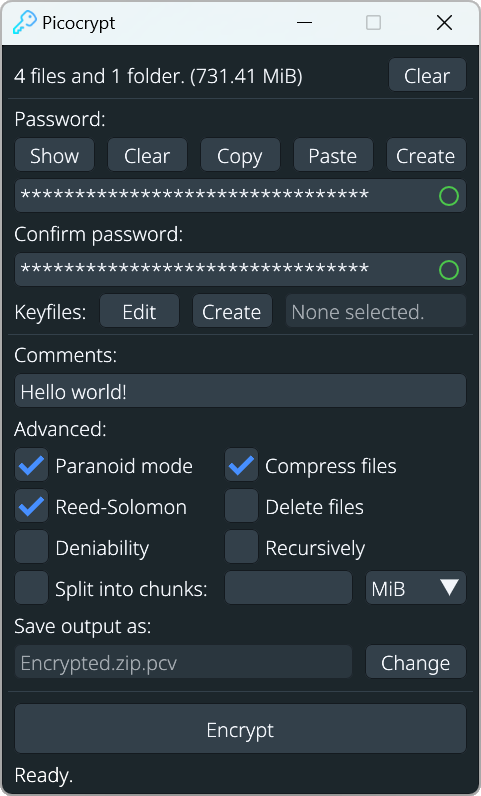
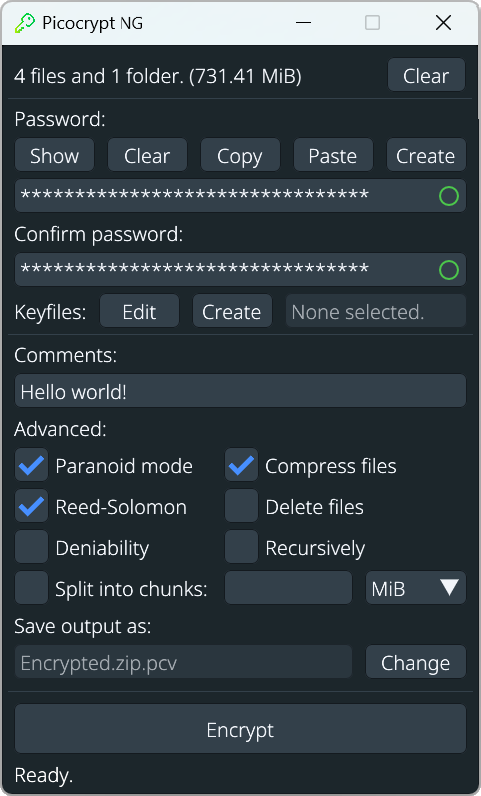
migrate Picocrypt -> Picocrypt NG

diff --git a/Internals.md b/Internals.md
@@ -1,8 +1,8 @@
 # Internals
-If you're wondering about how Picocrypt handles cryptography, you've come to the right place! This page contains the technical details about the cryptographic algorithms and parameters used, as well as how cryptographic values are stored in the header format.
+If you're wondering about how Picocrypt NG handles cryptography, you've come to the right place! This page contains the technical details about the cryptographic algorithms and parameters used, as well as how cryptographic values are stored in the header format.
 
 # Core Cryptography
-Picocrypt uses the following cryptographic primitives:
+Picocrypt NG uses the following cryptographic primitives:
 - XChaCha20 (cascaded with Serpent in counter mode for paranoid mode)
 - Keyed-BLAKE2b for normal mode, HMAC-SHA3 for paranoid mode (256-bit key, 512-bit digest)
 - HKDF-SHA3 for deriving a subkey for the MAC above, as well as a key for Serpent
@@ -13,10 +13,10 @@ Picocrypt uses the following cryptographic primitives:
 All primitives used are from the well-known [golang.org/x/crypto](https://pkg.go.dev/golang.org/x/crypto) module.
 
 # Counter Overflow
-Since XChaCha20 has a max message size of 256 GiB, Picocrypt will use the HKDF-SHA3 mentioned above to generate a new nonce for XChaCha20 and a new IV for Serpent if the total encrypted data is more than 60 GiB. While this threshold can be increased up to 256 GiB, Picocrypt uses 60 GiB to prevent any edge cases with blocks or the counter used by Serpent.
+Since XChaCha20 has a max message size of 256 GiB, Picocrypt NG will use the HKDF-SHA3 mentioned above to generate a new nonce for XChaCha20 and a new IV for Serpent if the total encrypted data is more than 60 GiB. While this threshold can be increased up to 256 GiB, Picocrypt NG uses 60 GiB to prevent any edge cases with blocks or the counter used by Serpent.
 
 # Header Format
-A Picocrypt volume's header is encoded with Reed-Solomon by default since it is, after all, the most important part of the entire file. An encoded value will take up three times the size of the unencoded value.
+A Picocrypt NG volume's header is encoded with Reed-Solomon by default since it is, after all, the most important part of the entire file. An encoded value will take up three times the size of the unencoded value.
 
 **All offsets and sizes below are in bytes.**
 | Offset | Encoded size | Decoded size | Description
@@ -35,24 +35,24 @@ A Picocrypt volume's header is encoded with Reed-Solomon by default since it is,
 | 789+3C |              |              | Encrypted contents of input data
 
 # Keyfile Design
-Picocrypt allows the use of keyfiles as an additional form of authentication. Picocrypt's unique "Require correct order" feature enforces the user to drop keyfiles into the window in the same order as they did when encrypting in order to decrypt the volume successfully. Here's how it works:
+Picocrypt NG allows the use of keyfiles as an additional form of authentication. Picocrypt NG's unique "Require correct order" feature enforces the user to drop keyfiles into the window in the same order as they did when encrypting in order to decrypt the volume successfully. Here's how it works:
 
-If correct order is not required, Picocrypt will take the SHA3-256 of each keyfile individually and XOR the hashes together. Finally, the result is XORed with the master key. Because the XOR operation is both commutative and associative, the order in which the keyfile hashes are XORed with each other doesn't matter - the end result is the same.
+If correct order is not required, Picocrypt NG will take the SHA3-256 of each keyfile individually and XOR the hashes together. Finally, the result is XORed with the master key. Because the XOR operation is both commutative and associative, the order in which the keyfile hashes are XORed with each other doesn't matter - the end result is the same.
 
-If correct order is required, Picocrypt will concatenate the keyfiles together in the order they were dropped into the window and take the SHA3-256 of the combined keyfiles. If the order is not correct, the keyfiles, when appended to each other, will result in a different file, and thus a different hash. So, the correct order of keyfiles is required to decrypt the volume successfully.
+If correct order is required, Picocrypt NG will concatenate the keyfiles together in the order they were dropped into the window and take the SHA3-256 of the combined keyfiles. If the order is not correct, the keyfiles, when appended to each other, will result in a different file, and thus a different hash. So, the correct order of keyfiles is required to decrypt the volume successfully.
 
 # Reed-Solomon
-By default, all Picocrypt volume headers are encoded with Reed-Solomon to improve resiliency against bit rot. The header uses N+2N encoding, where N is the size of a particular header field such as the version number, and 2N is the number of parity bytes added. Using the Berlekamp-Welch algorithm, Picocrypt is able to automatically detect and correct up to 2N/2=N broken bytes.
+By default, all Picocrypt NG volume headers are encoded with Reed-Solomon to improve resiliency against bit rot. The header uses N+2N encoding, where N is the size of a particular header field such as the version number, and 2N is the number of parity bytes added. Using the Berlekamp-Welch algorithm, Picocrypt NG is able to automatically detect and correct up to 2N/2=N broken bytes.
 
 If Reed-Solomon is to be used with the input data itself, the data will be encoded using 128+8 encoding, with the data being read in 1 MiB chunks and encoded in 128-byte blocks, and the final block padded to 128 bytes using PKCS#7.
 
 To address the edge case where the final 128-byte block happens to be padded so that it completes a full 1 MiB chunk, a flag is used to distinguish whether the last 128-byte block was padded originally or if it is just a full 128-byte block of data.
 
 # Deniability
-Plausible deniability in Picocrypt is achieved by simply re-encrypting the volume but without storing any identifiable header data. A new Argon2 salt and XChaCha20 nonce will be generated and stored in the deniable volume, but since both values are random, they don't reveal anything. A deniable volume will look something like this:
+Plausible deniability in Picocrypt NG is achieved by simply re-encrypting the volume but without storing any identifiable header data. A new Argon2 salt and XChaCha20 nonce will be generated and stored in the deniable volume, but since both values are random, they don't reveal anything. A deniable volume will look something like this:
 ```
 [argon2 salt][xchacha20 nonce][encrypted stream of bytes]
 ```
 
 # Just Read the Code
-Picocrypt is a very simple tool and only has one source file. The source Go file is just 2K lines and a lot of the code is dealing with the UI. The core cryptography code is only about 1K lines of code, and even so, a lot of that code deals with the UI and other features of Picocrypt. So if you need more information about how Picocrypt works, just read the code. It's not long, and it is well commented and will explain what happens under the hood better than a document can.
+Picocrypt NG is a very simple tool and only has one source file. The source Go file is just 2K lines and a lot of the code is dealing with the UI. The core cryptography code is only about 1K lines of code, and even so, a lot of that code deals with the UI and other features of Picocrypt NG. So if you need more information about how Picocrypt NG works, just read the code. It's not long, and it is well commented and will explain what happens under the hood better than a document can.

diff --git a/src/README.md b/src/README.md
@@ -1,5 +1,5 @@
 # Running From Source
-If you would like to run Picocrypt from source, or an executable isn't available for your platform, you've come to the right place. Running from source is very simple, and I've made it even easier with these straightforward instructions. Unlike VeraCrypt, which requires complex build procedures, SDKs, and assemblers, Picocrypt can easily be compiled from source with only a Go and C compiler. All you need is ten minutes and an Internet connection.
+If you would like to run Picocrypt NG from source, or an executable isn't available for your platform, you've come to the right place. Running from source is very simple, and I've made it even easier with these straightforward instructions. Unlike VeraCrypt, which requires complex build procedures, SDKs, and assemblers, Picocrypt NG can easily be compiled from source with only a Go and C compiler. All you need is ten minutes and an Internet connection.
 
 # 1. Prerequisites
 **Linux:**
@@ -14,20 +14,20 @@ brew install glfw glew
 **Windows:** A C compiler, ideally TDM-GCC or MinGW-w64
 
 # 2. Install Go
-If you don't have Go installed, download it from <a href="https://go.dev/dl/">here</a> or install it from your package manager (`apt install golang-go`). The latest version of Go is recommended, although you may fall back to Go 1.19 should any issues arise in the future.
+If you don't have Go installed, download it from <a href="https://go.dev/dl/">here</a> or install it from your package manager (`apt install golang-go`). The latest version of Go is recommended, although you may fall back to Go 1.24 should any issues arise in the future.
 
 # 3. Get the Source Files
-Download the source files as a zip from the homepage or `git clone` this repository. Next, navigate to the `src/` directory, where you will find the source file (`Picocrypt.go`). You will need this file, along with `go.mod` and `go.sum`, to compile Picocrypt.
+Download the source files as a zip from the homepage or `git clone` this repository. Next, navigate to the `src/` directory, where you will find the source file (`Picocrypt-NG.go`). You will need this file, along with `go.mod` and `go.sum`, to compile Picocrypt NG.
 
 # 4. Build From Source
-Finally, build Picocrypt from source:
-- Windows: <code>go build -ldflags="-s -w -H=windowsgui -extldflags=-static" Picocrypt.go</code>
-- macOS: <code>go build -ldflags="-s -w" Picocrypt.go</code>
-- Linux: <code>go build -ldflags="-s -w" Picocrypt.go</code>
+Finally, build Picocrypt NG from source:
+- Windows: <code>go build -ldflags="-s -w -H=windowsgui -extldflags=-static" Picocrypt-NG.go</code>
+- macOS: <code>go build -ldflags="-s -w" Picocrypt-NG.go</code>
+- Linux: <code>go build -ldflags="-s -w" Picocrypt-NG.go</code>
 
 Note: Make sure to set `CGO_ENABLED=1` if it isn't already.
 
 # 5. Done!
-You should now see a compiled executable (`Picocrypt.exe`/`Picocrypt`) in your directory. You can run it by double-clicking or executing it in your terminal. That wasn't too hard, right? Enjoy!
+You should now see a compiled executable (`Picocrypt-NG.exe`/`Picocrypt-NG`) in your directory. You can run it by double-clicking or executing it in your terminal. That wasn't too hard, right? Enjoy!
 
-Note: On Linux, if hardware OpenGL isn't available, you can set `LIBGL_ALWAYS_SOFTWARE=1` to force Mesa to use software rendering. This way, Picocrypt will be able to run regardless of driver support and can even run without a GPU at all. You may also need to set `NO_AT_BRIDGE=1` to disable the accessibility bus which is known to cause potential issues.
+Note: On Linux, if hardware OpenGL isn't available, you can set `LIBGL_ALWAYS_SOFTWARE=1` to force Mesa to use software rendering. This way, Picocrypt NG will be able to run regardless of driver support and can even run without a GPU at all. You may also need to set `NO_AT_BRIDGE=1` to disable the accessibility bus which is known to cause potential issues.

diff --git a/README.md b/README.md
@@ -1,12 +1,11 @@
-<a href="https://github.com/Picocrypt/Picocrypt/actions/workflows/build-windows.yml"><img src="https://github.com/Picocrypt/Picocrypt/actions/workflows/build-windows.yml/badge.svg"></a>
-<a href="https://github.com/Picocrypt/Picocrypt/actions/workflows/build-macos.yml"><img src="https://github.com/Picocrypt/Picocrypt/actions/workflows/build-macos.yml/badge.svg"></a>
-<a href="https://github.com/Picocrypt/Picocrypt/actions/workflows/build-linux.yml"><img src="https://github.com/Picocrypt/Picocrypt/actions/workflows/build-linux.yml/badge.svg"></a>
-<a href="https://github.com/Picocrypt/Picocrypt/actions/workflows/codeql-analysis.yml"><img src="https://github.com/Picocrypt/Picocrypt/actions/workflows/codeql-analysis.yml/badge.svg"></a>
+<a href="https://github.com/Picocrypt-NG/Picocrypt-NG/actions/workflows/build-windows.yml"><img src="https://github.com/Picocrypt-NG/Picocrypt-NG/actions/workflows/build-windows.yml/badge.svg"></a>
+<a href="https://github.com/Picocrypt-NG/Picocrypt-NG/actions/workflows/build-macos.yml"><img src="https://github.com/Picocrypt-NG/Picocrypt-NG/actions/workflows/build-macos.yml/badge.svg"></a>
+<a href="https://github.com/Picocrypt-NG/Picocrypt-NG/actions/workflows/build-linux.yml"><img src="https://github.com/Picocrypt-NG/Picocrypt-NG/actions/workflows/build-linux.yml/badge.svg"></a>
+<a href="https://github.com/Picocrypt-NG/Picocrypt-NG/actions/workflows/codeql-analysis.yml"><img src="https://github.com/Picocrypt-NG/Picocrypt-NG/actions/workflows/codeql-analysis.yml/badge.svg"></a>
 
-> ### 🚧update this to Picocrypt NG ---v
-<p align="center"><img align="center" src="/images/logo.svg" width="512" alt="Picocrypt"></p> 
+<p align="center"><img align="center" src="/images/logo.png" width="512" alt="Picocrypt NG"></p> 
 
-Picocrypt NG is a very small (hence <i>Pico</i>), very simple, yet very secure encryption tool that you can use to protect your files. It's designed to be the <i>go-to</i> tool for file encryption, with a focus on security, simplicity, and reliability. Picocrypt NG uses the secure XChaCha20 cipher and the Argon2id key derivation function to provide a high level of security.
+Picocrypt NG (new generation) is a very small (hence <i>Pico</i>), very simple, yet very secure encryption tool that you can use to protect your files. It's designed to be the <i>go-to</i> tool for file encryption, with a focus on security, simplicity, and reliability. Picocrypt NG uses the secure XChaCha20 cipher and the Argon2id key derivation function to provide a high level of security.
 
 <br>
 <p align="center"><img align="center" src="/images/screenshot.png" width="318" alt="Picocrypt NG"></p>
@@ -16,7 +15,7 @@ Picocrypt NG is a very small (hence <i>Pico</i>), very simple, yet very secure e
 
 Picocrypt NG is a community-developed continuation of the archived [Picocrypt](https://github.com/Picocrypt) project.
 
-The original Picocrypt author does not endorse, develop, nor support Picocrypt NG.
+*The original Picocrypt author does not endorse, develop, nor support Picocrypt NG.*
 <!--/ DO NOT REMOVE  -->
 
 # Downloads

diff --git a/Changelog.md b/Changelog.md
@@ -1,3 +1,8 @@
+# v2.00 (Released 08/07/2025)
+<ul>
+	<li>✓ First release in new Picocrypt-NG organization!</li>
+</ul>
+
 # v1.49 (Released 08/03/2025)
 <ul>
 	<li>✓ Update macOS icon to fit better</li>